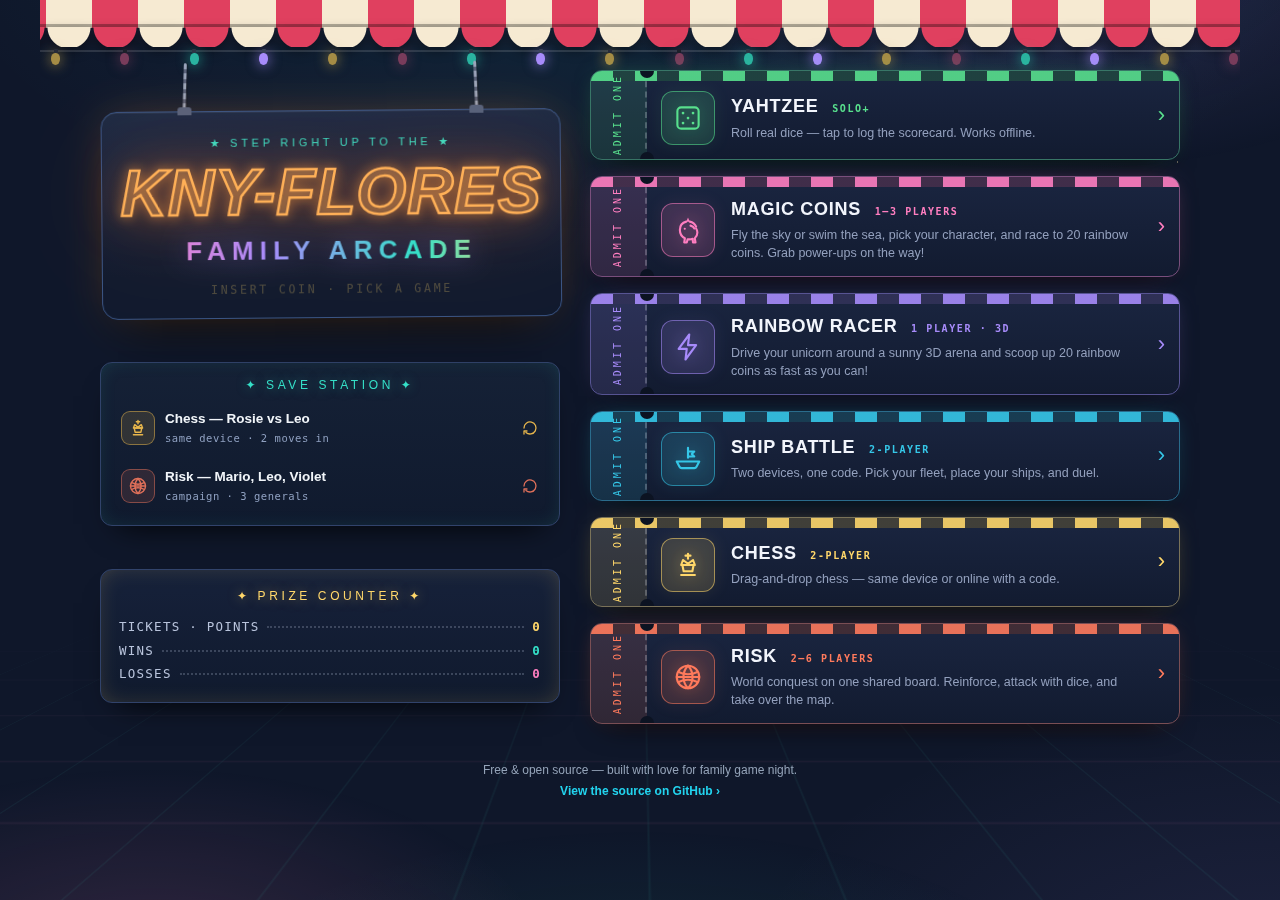
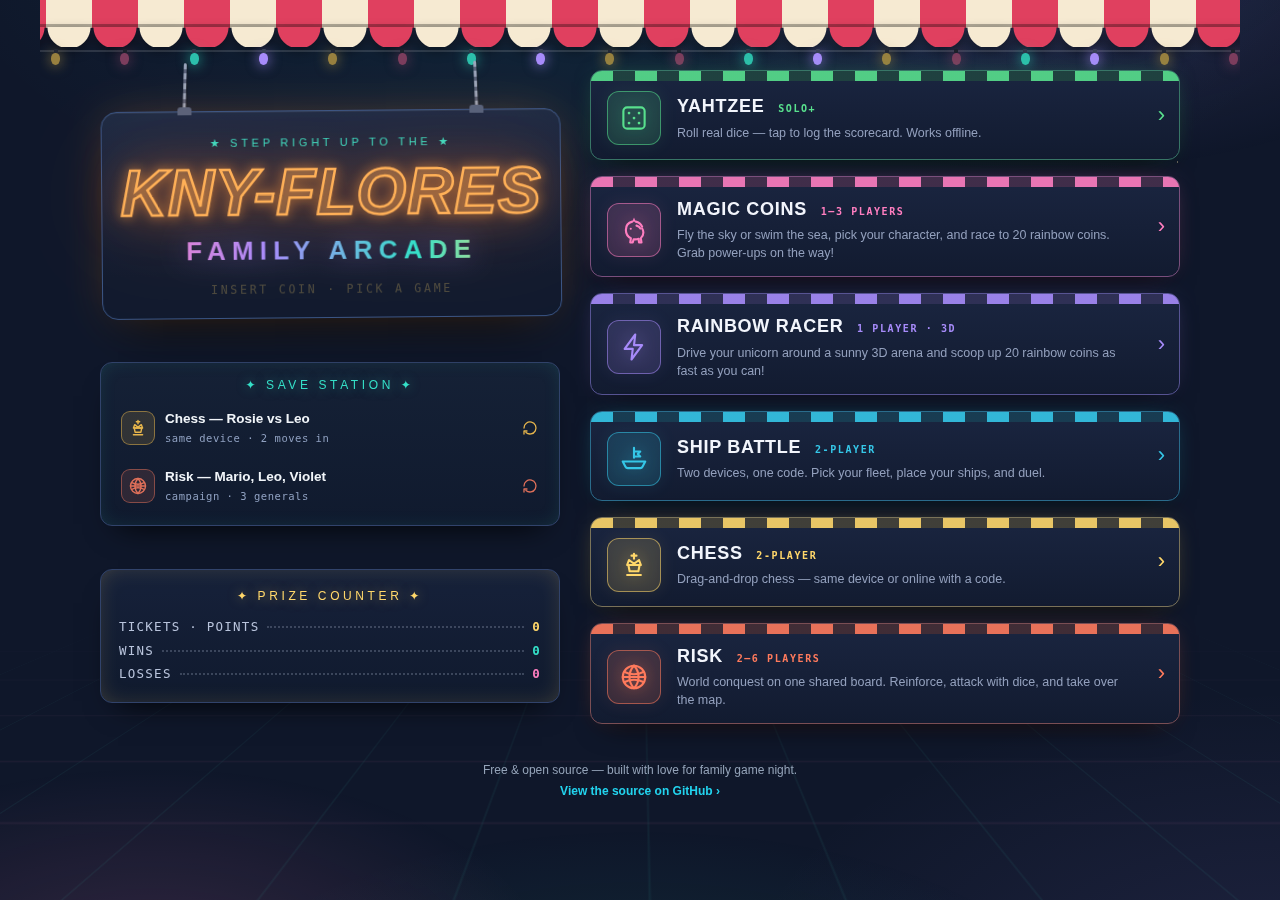
Landing: drop the ADMIT ONE stubs from the game tickets
The tear-off stub, its perforation and punched holes are gone — each
ticket is now just its striped awning, the glowing glyph, the name and
blurb, and the chevron. Cleaner, and the titles get the width back.

Claude-Session: https://claude.ai/code/session_01Pet5917XAbMAsbQM47tWg6

diff --git a/src/app/styles/app.css b/src/app/styles/app.css
@@ -278,42 +278,12 @@
   background: repeating-linear-gradient(90deg, var(--c) 0 22px, color-mix(in srgb, var(--c) 22%, #10182a) 22px 44px);
   opacity: 0.9;
 }
-/* The tear-off stub, with punched holes above and below the perforation. */
-.tk-stub {
-  flex: 0 0 56px;
-  display: grid;
-  place-items: center;
-  border-right: 2px dashed rgba(232, 236, 246, 0.25);
-  background: color-mix(in srgb, var(--c) 13%, transparent);
-}
-.tk-stub span {
-  writing-mode: vertical-rl;
-  transform: rotate(180deg);
-  font-family: var(--mono);
-  font-size: 10px;
-  letter-spacing: 0.3em;
-  text-transform: uppercase;
-  color: var(--c);
-}
-.tk::before,
-.tk::after {
-  content: '';
-  position: absolute;
-  left: 49px;
-  width: 14px;
-  height: 14px;
-  border-radius: 50%;
-  background: var(--night);
-  z-index: 1;
-}
-.tk::before { top: -7px; }
-.tk::after { bottom: -7px; }
 .tk-main {
   flex: 1;
   display: flex;
   align-items: center;
   gap: 16px;
-  padding: 20px 14px 14px;
+  padding: 20px 16px 14px;
   min-width: 0;
 }
 .tk-glyph {

diff --git a/src/app/Menu.tsx b/src/app/Menu.tsx
@@ -38,7 +38,7 @@ function BulbString({ count, offset = 0 }: { count: number; offset?: number }) {
   );
 }
 
-/** One ADMIT-ONE ticket: stub, awning, glyph, name, blurb. */
+/** One game ticket: awning strip, glyph, name, blurb. */
 function Ticket({ title, sub, tag, children }: {
   title: string;
   sub: string;
@@ -48,7 +48,6 @@ function Ticket({ title, sub, tag, children }: {
   return (
     <>
       <span className="tk-awning" aria-hidden="true" />
-      <span className="tk-stub"><span>Admit one</span></span>
       <span className="tk-main">
         <span className="tk-glyph">{children}</span>
         <span className="tk-body">
